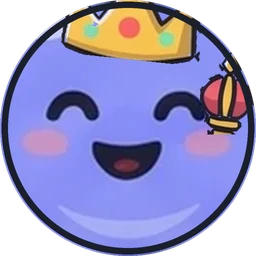
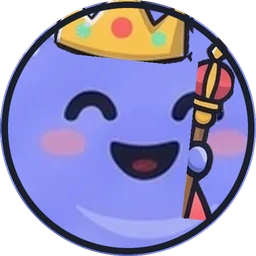
Alfa 16: cetro inteiro na selfie do Ancestral
O cetro aparece com a cabeça, o cabo e a mão que o segura; a coroa fica centrada no rosto.

Claude-Session: https://claude.ai/code/session_01FHkf44D7GTThMWAkWrEsoQ

diff --git a/scripts/lidinho-selfie.py b/scripts/lidinho-selfie.py
@@ -28,7 +28,7 @@ CFG = {
     'virtuoso': ((330, 345, 128), [((176, 84, 486, 248), 'dark', (0.06, -0.08, 0.86), 0, False)]),
     'mestre': ((372, 322, 140), [('draw', 'cape')]),
     'lifehacker': ((315, 322, 128), [('draw', 'screen')]),
-    'ancestral': ((318, 392, 128), [((212, 100, 422, 252), 'color', (0.22, -0.17, 0.56), -6, False), ((498, 56, 614, 236), 'color', (0.78, 0.2, 0.22), 0, False)]),
+    'ancestral': ((300, 392, 128), [((212, 100, 422, 252), 'color', (0.19, -0.17, 0.56), -6, False), ((520, 56, 604, 470), 'all', (0.71, 0.13, 0.15), -6, False)]),
     'soberano': ((322, 272, 120), [((190, 20, 446, 128), 'all', (0.1, -0.03, 0.8), 0, False)]),
 }
 
